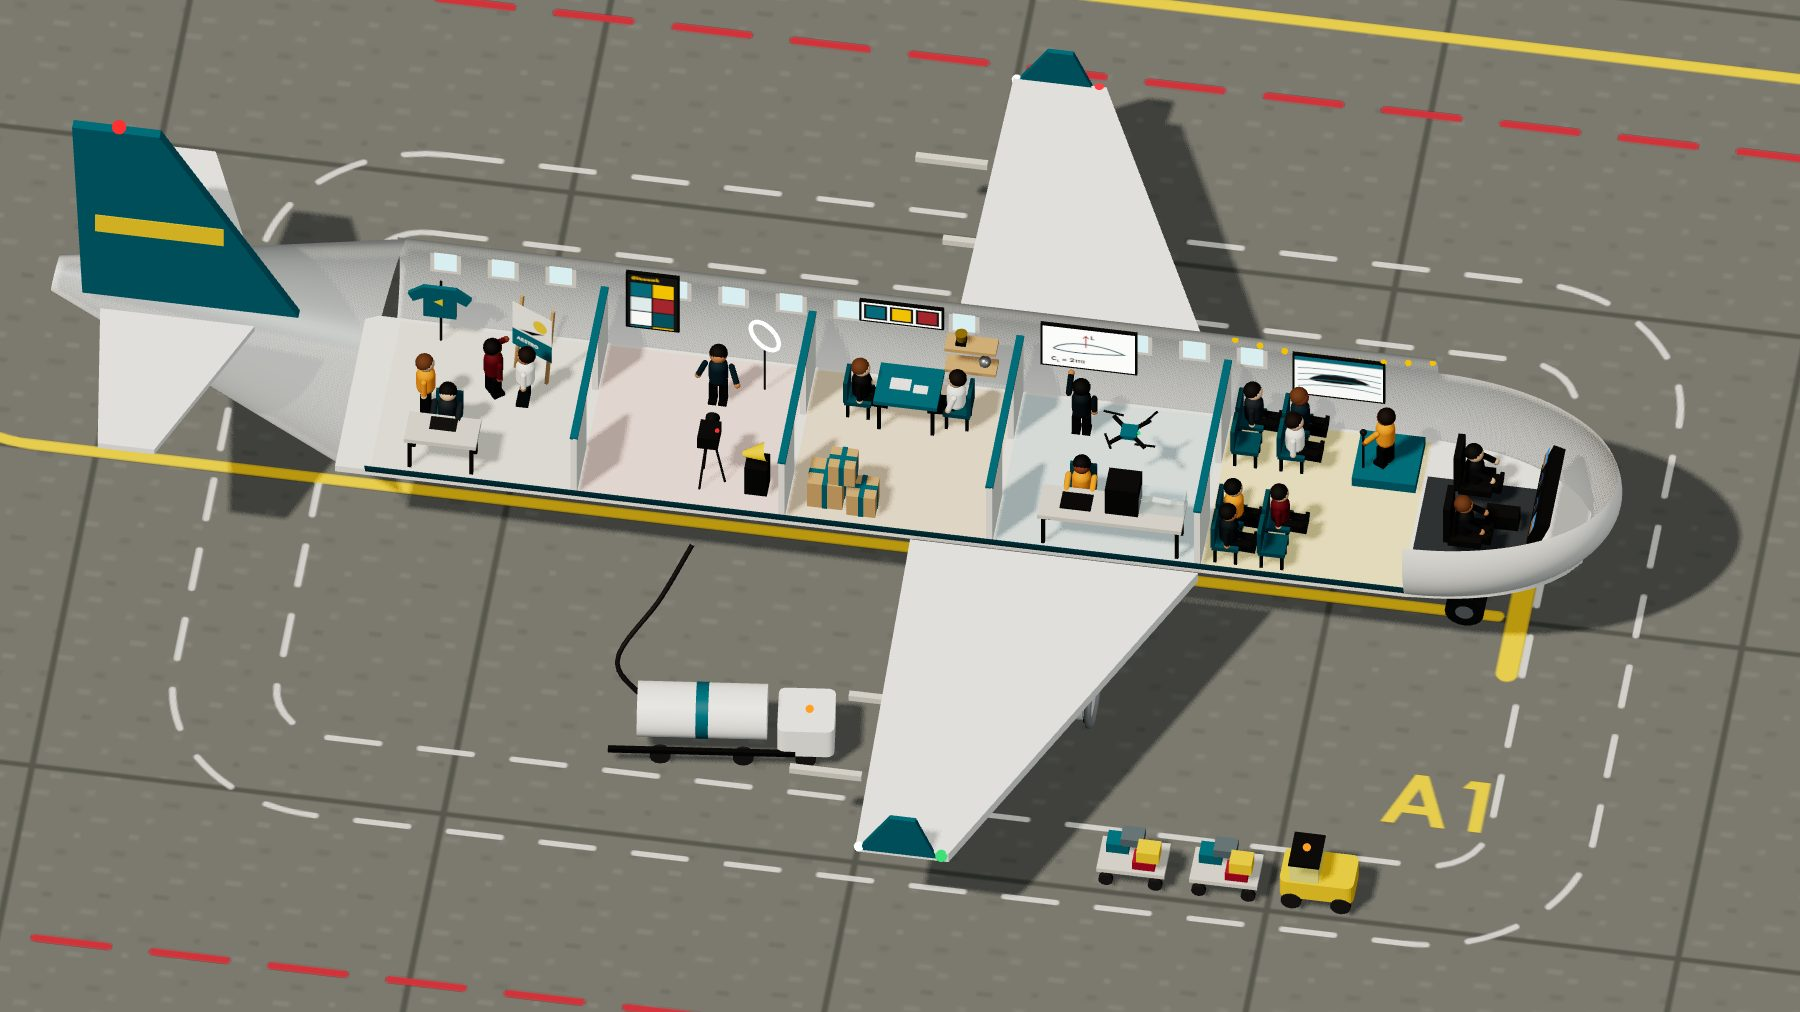
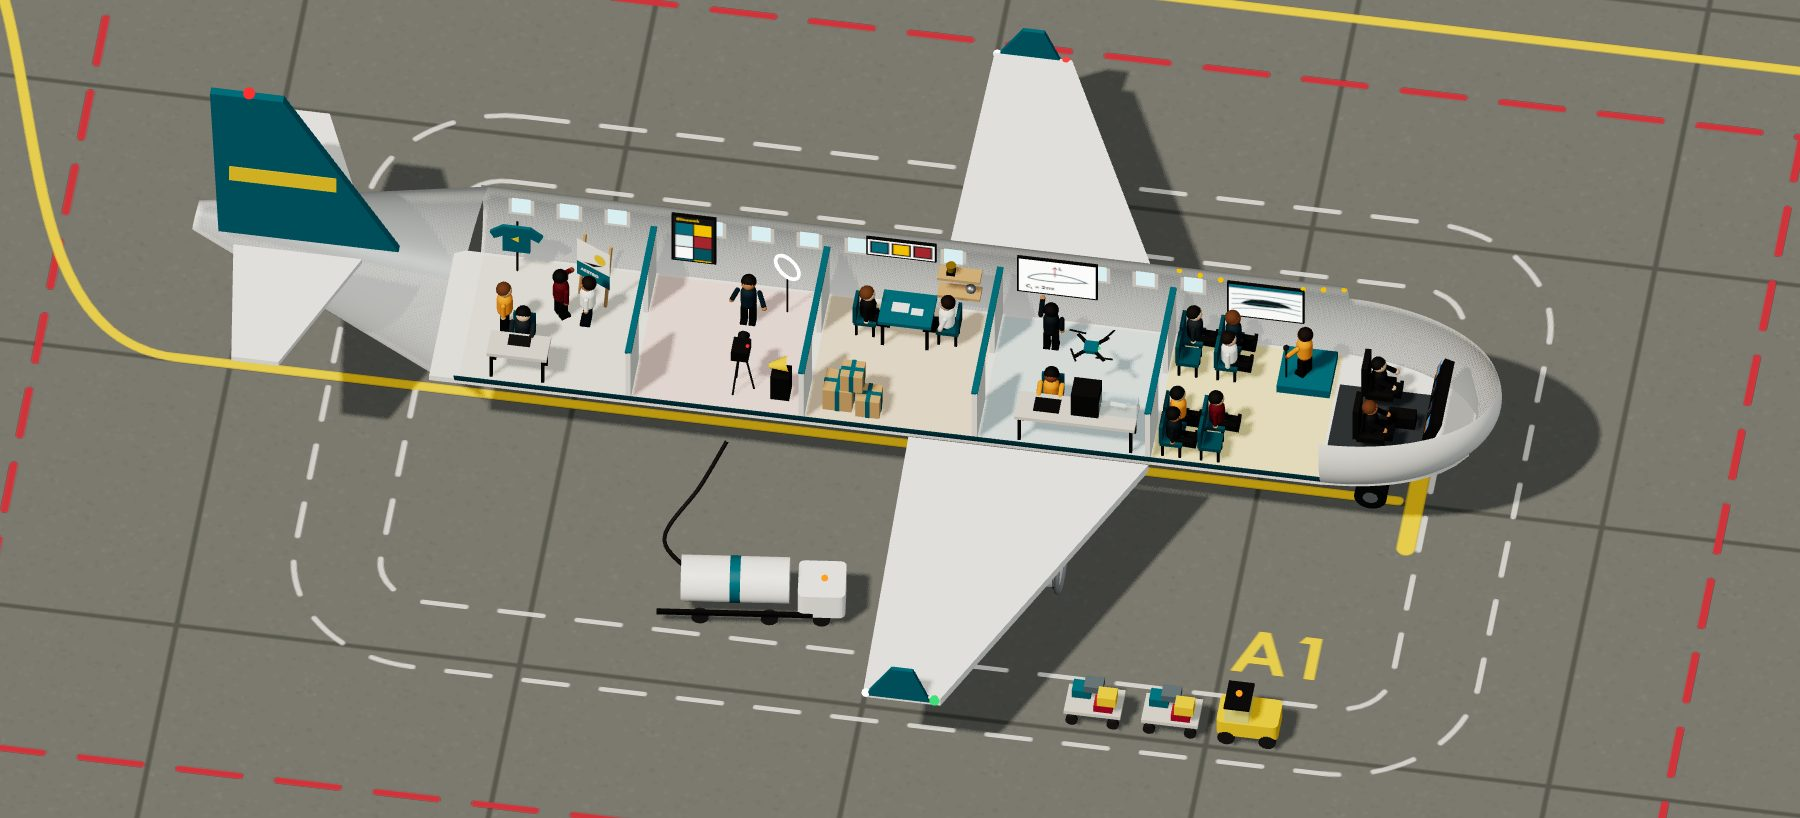
Kabin sahnesi ekran genişliğinde (2,2:1), apron dokusu ve flap raylarındaki çizgiler giderildi; gece İstanbulunun ışıklı çizgileri geri geldi

diff --git a/index.html b/index.html
@@ -115,15 +115,15 @@
       </div>
       <div class="maket" id="maket">
         <div class="maket__sahne">
-        <picture><source media="(max-width: 760px)" srcset="gorseller/kabin-maket-m-800.jpg" width="800" height="602"><img class="maket__poster" src="gorseller/kabin-maket-1200.jpg" srcset="gorseller/kabin-maket-800.jpg 800w, gorseller/kabin-maket-1200.jpg 1200w, gorseller/kabin-maket-1800.jpg 1800w" sizes="(max-width: 1240px) 100vw, 1184px" width="1200" height="675" alt="" loading="lazy"></picture>
+        <picture><source media="(max-width: 760px)" srcset="gorseller/kabin-maket-m-800.jpg" width="800" height="602"><img class="maket__poster" src="gorseller/kabin-maket-1200.jpg" srcset="gorseller/kabin-maket-800.jpg 800w, gorseller/kabin-maket-1200.jpg 1200w, gorseller/kabin-maket-1800.jpg 1800w" sizes="100vw" width="1200" height="545" alt="" loading="lazy"></picture>
         <canvas class="maket__tuval" id="maket-tuval" aria-hidden="true"></canvas>
         <ol class="maket__imler">
-          <li data-konum="83.71 39.38 81.23 67.34"><button class="maket__im" type="button" aria-controls="kabin-0" aria-pressed="true"><span class="maket__no" aria-hidden="true">1</span><span class="maket__ad" data-i18n="kokpit">Yönetim kurulu</span></button></li>
-          <li data-konum="73.98 33.38 73.10 58.84"><button class="maket__im" type="button" aria-controls="kabin-1" aria-pressed="false"><span class="maket__no" aria-hidden="true">2</span><span class="maket__ad" data-i18n="e1">Etkinlik</span></button></li>
-          <li data-konum="62.43 30.96 62.41 52.32"><button class="maket__im" type="button" aria-controls="kabin-2" aria-pressed="false"><span class="maket__no" aria-hidden="true">3</span><span class="maket__ad" data-i18n="e2">Ar-Ge</span></button></li>
-          <li data-konum="50.89 28.56 51.72 45.77"><button class="maket__im" type="button" aria-controls="kabin-3" aria-pressed="false"><span class="maket__no" aria-hidden="true">4</span><span class="maket__ad" data-i18n="e3">Sponsorluk</span></button></li>
-          <li data-konum="39.35 26.14 41.03 39.25"><button class="maket__im" type="button" aria-controls="kabin-4" aria-pressed="false"><span class="maket__no" aria-hidden="true">5</span><span class="maket__ad" data-i18n="e4">Tanıtım</span></button></li>
-          <li data-konum="27.80 23.72 30.36 32.73"><button class="maket__im" type="button" aria-controls="kabin-5" aria-pressed="false"><span class="maket__no" aria-hidden="true">6</span><span class="maket__ad" data-i18n="e5">Tasarım</span></button></li>
+          <li data-konum="78.10 39.05 81.23 67.34"><button class="maket__im" type="button" aria-controls="kabin-0" aria-pressed="true"><span class="maket__no" aria-hidden="true">1</span><span class="maket__ad" data-i18n="kokpit">Yönetim kurulu</span></button></li>
+          <li data-konum="69.99 32.87 73.10 58.84"><button class="maket__im" type="button" aria-controls="kabin-1" aria-pressed="false"><span class="maket__no" aria-hidden="true">2</span><span class="maket__ad" data-i18n="e1">Etkinlik</span></button></li>
+          <li data-konum="60.36 30.38 62.41 52.32"><button class="maket__im" type="button" aria-controls="kabin-2" aria-pressed="false"><span class="maket__no" aria-hidden="true">3</span><span class="maket__ad" data-i18n="e2">Ar-Ge</span></button></li>
+          <li data-konum="50.74 27.89 51.72 45.77"><button class="maket__im" type="button" aria-controls="kabin-3" aria-pressed="false"><span class="maket__no" aria-hidden="true">4</span><span class="maket__ad" data-i18n="e3">Sponsorluk</span></button></li>
+          <li data-konum="41.12 25.40 41.03 39.25"><button class="maket__im" type="button" aria-controls="kabin-4" aria-pressed="false"><span class="maket__no" aria-hidden="true">5</span><span class="maket__ad" data-i18n="e4">Tanıtım</span></button></li>
+          <li data-konum="31.50 22.93 30.36 32.73"><button class="maket__im" type="button" aria-controls="kabin-5" aria-pressed="false"><span class="maket__no" aria-hidden="true">6</span><span class="maket__ad" data-i18n="e5">Tasarım</span></button></li>
         </ol>
         </div>
         <div class="kabin" id="kabin" aria-live="polite">

diff --git a/site.css b/site.css
@@ -174,6 +174,8 @@ h4 { font: 600 var(--t-2)/1.4 var(--f-govde); }
 html.js:not(.az) .ist--gece .fener-hale { animation: fener-nabiz 2.4s ease-in-out infinite; }
 html.js:not(.az) .ist--gece .ikaz { animation: ikaz-yan 1.8s linear infinite; }
 html.js:not(.az) .ist--gece .ikaz--2 { animation-delay: -0.9s; }
+.ist--gece { fill: none; stroke: var(--gece-vurgu); stroke-width: 1.6; stroke-linecap: round; stroke-linejoin: round; }
+.ist--gece .u2 { stroke-opacity: 0.55; }
 .ist--gece .ys2 { stroke: var(--gece-vurgu); opacity: 0.35; }
 .ist--gece .blok--bulutlar { opacity: 0.5; }
 .ist .gy { fill: url(#tarama-gun); stroke: var(--i-c); stroke-width: 0.8; stroke-linejoin: round; }
@@ -566,7 +568,7 @@ html.js:not(.az) .ayrinti[open]::backdrop { animation: belir 300ms ease both; }
 .kabin-kap__bas { max-width: 46rem; }
 .kabin-kap__bas p { color: var(--soluk); }
 .maket { position: relative; margin-top: var(--b-3); }
-.maket__sahne { position: relative; aspect-ratio: 16 / 9; overflow: hidden; border-radius: var(--r-2); }
+.maket__sahne { position: relative; width: 100vw; margin-inline: calc(50% - 50vw); aspect-ratio: 2.2; overflow: hidden; }
 .maket__poster, .maket__tuval { position: absolute; inset: 0; width: 100%; height: 100%; }
 .maket__poster { object-fit: cover; transition: opacity var(--sure) ease; }
 .maket[data-cizici='3b'] .maket__poster { opacity: 0; }
@@ -603,11 +605,11 @@ html:not(.js) :is(.kabin__ust, .maket__imler, .kabin__not) { display: none; }
 .js .kabin__ust { padding-left: 3.4em; }
 .js .kabin__sira { position: absolute; left: var(--b-3); top: calc(var(--b-2) + 16px); }
 .js .kabin { position: relative; gap: 12px; margin-top: var(--b-2); padding: var(--b-2) var(--b-3); border: 1px solid var(--cizgi); border-radius: var(--r-2); background: var(--yuzey); }
-@media (min-width: 1280px) { .js .kabin { position: absolute; left: var(--b-2); bottom: var(--b-2); z-index: 2; width: 24rem; margin: 0; box-shadow: var(--g-1); } }
+@media (min-width: 1360px) { .js .kabin { position: absolute; left: var(--b-2); bottom: var(--b-2); z-index: 2; width: 24rem; margin: 0; box-shadow: var(--g-1); } }
 .js .kabin__kart { grid-area: 1 / 1; transition: opacity 280ms ease, visibility 280ms; }
 .js .kabin__kart:not([data-secili]) { visibility: hidden; opacity: 0; }
 @media (max-width: 760px) {
-  .maket__sahne { margin-inline: calc(var(--kenar) * -1); aspect-ratio: 4 / 3; border-radius: 0; }
+  .maket__sahne { aspect-ratio: 4 / 3; }
   .maket:not([data-cizici='3b']) .maket__imler > li { left: var(--xm); top: var(--ym); }
   .maket__im[aria-pressed='true']:not(:hover) .maket__ad { opacity: 0; }
   .bos__resim { aspect-ratio: 4 / 3; object-fit: cover; }

diff --git a/README.md b/README.md
@@ -57,7 +57,7 @@ site açılır, kayıt bölümü "sunucuya ulaşılamıyor" der ve yazılar `ver
 | Bölüm | İçerik |
 |---|---|
 | Açılış | Sabit ana başlık; ad kendiliğinden döner (İTÜ Uçak Uzay Mühendisliği Kulübü → AS Istanbul/EUROAVIA → İTÜ UUMK), kâğıt uçak yörüngesini zamanla uçar, blok blok kurulan İstanbul panoraması; altında deniz sürer ve bizim kıyının rıhtımında biter (vapur kaydırdıkça karşıya geçer), "Gündem" + "Üye ol" |
-| 01 Biz kimiz | Kısa giriş + "Tarihçemizi keşfet" (düğmenin uçağı kalkar, sayfa tarihçeye iner, başlığın çizgisi uzar) ve kimlik paneli (iki logonun üstünde İTÜ UUMK'dan AS Istanbul'a takla atarak uçan uçak, izi arkasından çizilir); "Ne yapıyoruz" 5 resimli kutu (teknik gezi, yazılım, seminer, atölye, kulüp hayatı); kabin ekipleri 2,5B kesit maketinde (three.js; donanım GPU'su yoksa yazılımsal çizicide 1x piksel ~15 kare/sn, WebGL hiç yoksa poster; uçak yavaşça salınır ve hep bütün, kâğıda gölgesiyle oturur; numaralar duvarın üstünde; kart masaüstünde (≥ 1280 px) sahnenin sol altında, dar ekranda altta; tur 7 sn'de bir sonraki ekibe geçer, süre çubuğunun ucunda uçak; "Bu ekibe başvur" üye alım formuna); koyu bantta resimli "uçuş şeritleri" tarihçesi (15 kayıt, 1941–2026; ayrıntı sayfası, `#tarih-<kimlik>` bağlantısı, uçakla ilerleyen yıl rozeti) |
+| 01 Biz kimiz | Kısa giriş + "Tarihçemizi keşfet" (düğmenin uçağı kalkar, sayfa tarihçeye iner, başlığın çizgisi uzar) ve kimlik paneli (iki logonun üstünde İTÜ UUMK'dan AS Istanbul'a takla atarak uçan uçak, izi arkasından çizilir); "Ne yapıyoruz" 5 resimli kutu (teknik gezi, yazılım, seminer, atölye, kulüp hayatı); kabin ekipleri 2,5B kesit maketinde (three.js; donanım GPU'su yoksa yazılımsal çizicide 1x piksel ~15 kare/sn, WebGL hiç yoksa poster; uçak yavaşça salınır ve hep bütün, kâğıda gölgesiyle oturur; numaralar duvarın üstünde; zemin koyu beton apron (taksi çizgisi, park alanı sınırı, servis yolu, A1), sahne masaüstünde ekran genişliğinde (2,2:1), telefonda 4:3; kart ≥ 1360 px'te sahnenin sol altında, daha dar ekranda altta; tur 7 sn'de bir sonraki ekibe geçer, süre çubuğunun ucunda uçak; "Bu ekibe başvur" üye alım formuna); koyu bantta resimli "uçuş şeritleri" tarihçesi (15 kayıt, 1941–2026; ayrıntı sayfası, `#tarih-<kimlik>` bağlantısı, uçakla ilerleyen yıl rozeti) |
 | 02 Gündem | Kayda açık etkinlikler (sunucudan; ilk 4, kalanı "göster"; kayıt kapalıyken ya da etkinlik yokken çizimli kapı kartı `gorseller/kapi.svg`: kapalı A1 kapısı, uyuyan kedi, kule ve dönen radar, taksi eden uçak; telefonda ortadan 4:3 kırpılır) + duyurular (2026–27 programı, yeni öğrenciler, EUROAVIA Ideathon 2026) |
 | 03 Son etkinlikler | Kalkış panosu (10 etkinlik) + biniş kartı (rota, tür, uçuş kodu, damga, fotoğraf, dile göre tarih) + 3 fotoğraf |
 | 04 Yazılar | AESTRO rafı (3 sayının gerçek kapağı, okuma bağlantılarıyla) + AS Istanbul'un 6 EUROAVIA dönem raporu kartpostal olarak (her raporun içeriğinden bir ön yüz çizimi, pul, posta damgası); yönetimden eklenen yazılar sitenin kendi okuyucusunda açılır |

diff --git a/notlar/v14-teslim.md b/notlar/v14-teslim.md
@@ -13,3 +13,15 @@ Kaynak istek: 1) kabin animasyonlu ama uçak zeminden ayrışmıyor; zemine apro
 Testler: dogrula 1572/0 (apron ve telefon denetimleri yeni yapıya göre) · e2e tam koşu 38/39 (`.cekim-gecici/uumk/e2e-v14.txt`): düşen "açılış İstanbul'u" (kapak panoramasının ilk ölçümü yükleme süresine bağlı; bu işte dokunulmadı) tek başına 2/2 geçti · axe 0 ihlal (390 TR, 1440 EN) · mobil-denetim 320/390/1440: taşma 0, < 44 px hedef 0 (320'deki tek çakışma ekran dışı "İçeriğe geç") · UX 0 HATA / 7 UYARI.
 Bütçe: CSS gzip 17,97 / 18 kB — sınırda. Sonraki görsel işte sınır ya yükseltilmeli ya da başka yerden kısılmalı.
 Risk: apronun rengi ışık ve ton eşlemesiyle hafif sıcak (bej-gri) çıkıyor; daha soğuk/koyu istenirse `plaka` dokusunun taban rengi tek satır.
+
+## Ek: geri bildirim sonrası (gece İstanbulu, apron)
+- Gece İstanbulu "eskiden daha estetikti": v13 öncesindeki ışıklı görünüm, altbilgi simge kuralından panoramaya sızan sarı 1,6 px çizgiydi (pencere
+  çerçeveleri, köprü, siluet, bulutlar). Kullanıcı tercihi bu: aynı çizgi artık bilerek ve yalnız gece panoramasına yazılı (`.ist--gece { fill: none;
+  stroke: var(--gece-vurgu); stroke-width: 1.6 … }`); en dağınık kısım olan üst üste binen uzak siluet kutuları %55 çizgi opaklığında. Karşılaştırma:
+  `.cekim-gecici/uumk/gece5/karsi.png` (üst v12, alt şimdi).
+- Apron "konteyner gibi": sahne masaüstünde ekran genişliğinde (100vw, 2,2:1; köşe yuvarlaklığı yok), telefonda 4:3 kenardan kenara.
+  "Garip çizgiler": (1) plaka dokusundaki her plakada aynı yerde tekrarlanan kısa tire lekeleri → tohumlu, düzensiz 1 px doku; (2) kanat arkasındaki üç
+  flap rayı, koyu zeminde kanattan kopuk beyaz çubuk gibi duruyordu → kaldırıldı. Kart sahne üstüne ≥ 1360 px'te biner (1280'de gövdeye ~20 px
+  biniyordu); daha dar ekranda altta. Posterler 2,2:1 yeniden üretildi (1800×818, 1200×545, 800×363), numara konumları yeni çerçeveden.
+- Testler: dogrula 1572/0 · e2e 39/39 (`e2e-v14b.txt`) · axe 0 (1440) · mobil-denetim 390/1047/1366: taşma 0, çakışma 0, küçük hedef 0, sayfa genişliği = ekran ·
+  UX 0 HATA / 7 UYARI · CSS gzip 17,97 / 18 kB.
